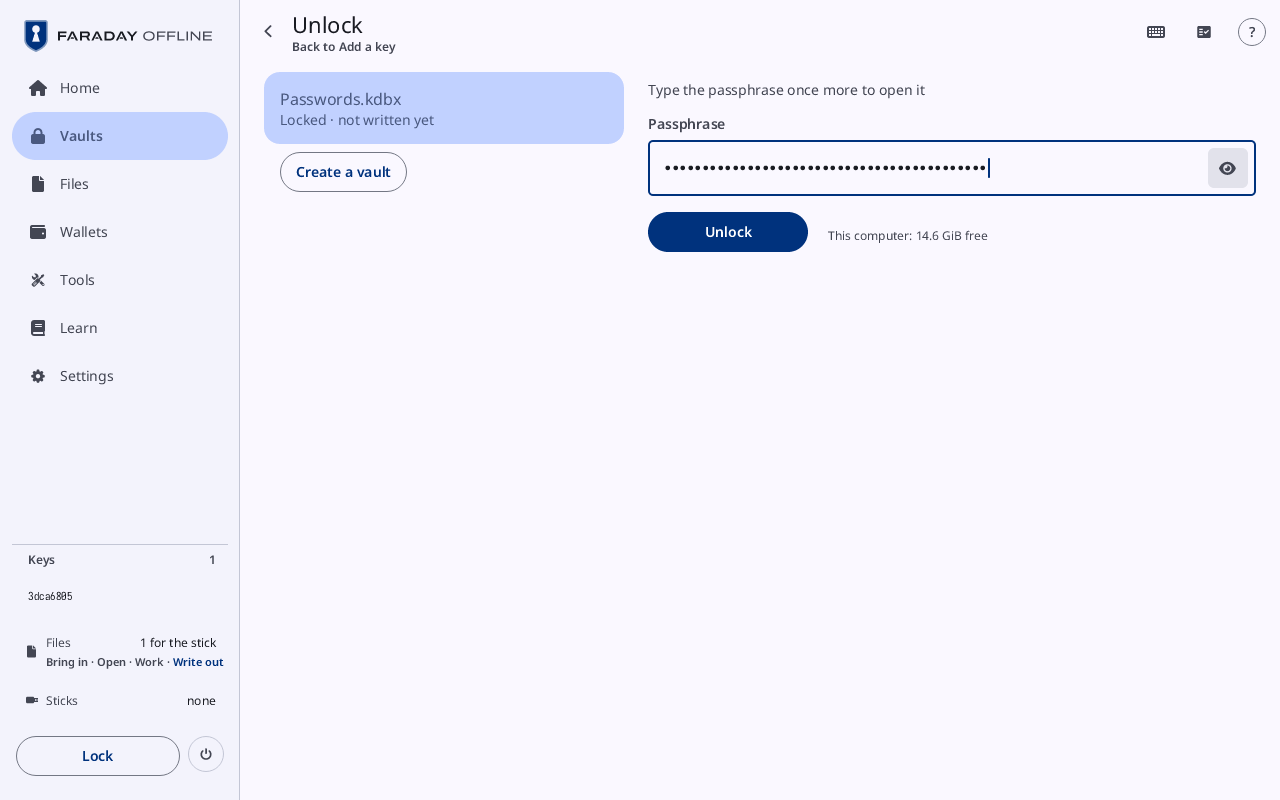
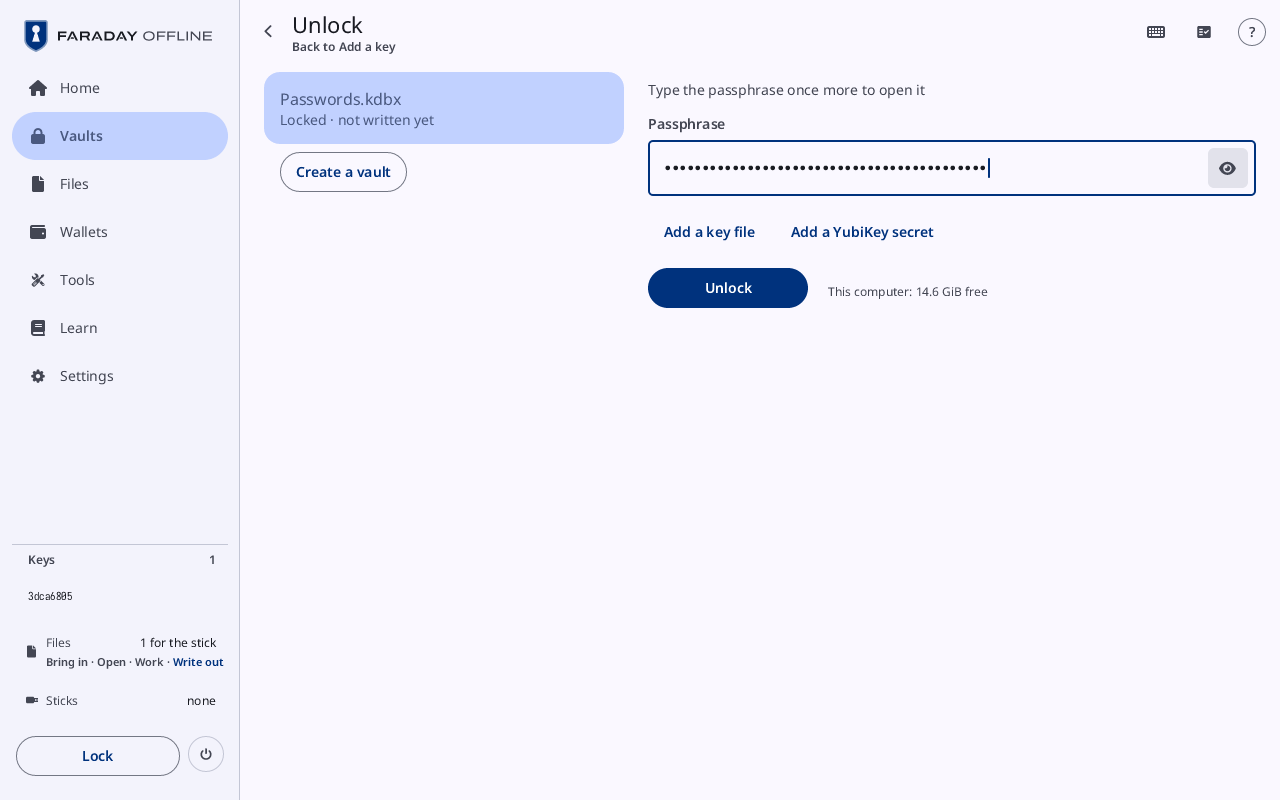
The guide's pictures of Unlock, Create's passphrase step and the open vault's page show the key file and YubiKey rows and the ⋮ menu, and the pages of Vaults, Create a vault and the open vault name them. unmake_key_file's account covers a .keyx taken out of the Outbox by hand.
Reviewed: tree.image-metadata
Reviewed: strings.plain
Reviewed: crypto.kept-values
Reviewed: crypto.costs-said
Reviewed: keys.secret-files
Reviewed: keys.child-vault-only
Reviewed: keys.vault-memory-need
Reviewed: keys.vault-components
Claude-Session: https://claude.ai/code/session_01Nu65eQEctKHpYAeKaDVyXV

Changed region(s): [[0.5, 0.25, 0.75, 0.4062]]

diff --git a/faraday/faraday-keys/src/vault.rs b/faraday/faraday-keys/src/vault.rs
@@ -2059,8 +2059,9 @@ impl OpenVaults {
     }
 
     /// Takes back a key file made for open vault `id` ([`OpenVaults::make_key_file`])
-    /// that its document could not be kept for: the key is wiped and no key
-    /// file is pending. `false` where the pending key file is not a made
+    /// whose document was not kept (it could not be, or its `.keyx` was
+    /// taken out of the Outbox): the key is wiped and no key file is
+    /// pending. `false` where the pending key file is not a made
     /// one (a chosen key or a removal stays), an unknown vault and a
     /// read-only or sealing one.
     pub fn unmake_key_file(&mut self, id: VaultId) -> bool {

diff --git a/docs/guide/screens/vaults.md b/docs/guide/screens/vaults.md
@@ -86,6 +86,8 @@ asked for the vault.
 | **Type the passphrase once more to open it** | over the field, for the vault just made by Create a vault |
 | the vault | the vault chosen in the list beside it, by its name and state (**Locked vault**, **Locked**; a vault just made, **New vault**, **Locked · not written yet**), with **Create a vault** under the list. On a narrower window, each locked vault is a row: its file, where it is and its size, its unlock cost, and "about 2.4 s here", the time it takes on this computer; a press chooses it |
 | **Passphrase** | the field; its eye shows or hides what is typed |
+| **Add a key file** | under the field: opens **Choose a key file**, a list of the files in Files that are not vaults, with **Choose**; "Files holds no file that is not a vault" when there is none. A vault sealed with a key file opens only with that file |
+| **Add a YubiKey secret** | under the field: shows the **YubiKey secret** field, 40 hexadecimal digits with spaces or colons between them; the line under it says how many digits were typed, or that something else was typed. A vault sealed with a YubiKey secret opens only with it |
 | "Remove the stick, then type the passphrase" | in place of the field while a stick is attached |
 | **Unlock** | tries the passphrase. Grey while a stick is attached |
 | "This computer: 3.1 GiB free" | the memory free here, or **This computer: memory not reported** |

diff --git a/docs/guide/screens/vault.md b/docs/guide/screens/vault.md
@@ -25,6 +25,10 @@ writes the vault back over its own file.
 | the title | the vault's name ("Vault 1"), or "Vault" for a vault with no name |
 | the state | under the title: **Open**, or "Open · 2 unsaved changes" in the warning tone |
 | **Rename** | opens **Rename the vault** in the detail: **Name**, **Save**, **Cancel** |
+| ⋮ | beside **Rename**: **Key file** and **Remove YubiKey secret** |
+| **Key file** | in the ⋮: a dialog with **Make a key file**, **Choose a file** and **Remove key file**, each acting at once, and "Next seal: none" or "Next seal: a key file". A made key file goes to the Outbox; it takes effect at the next seal, and copies sealed before keep the key file they had |
+| **Remove YubiKey secret** | in the ⋮: the next seal leaves the YubiKey secret out, and copies sealed before still need it; **Keep YubiKey secret** in its place while a removal waits |
+| the line after the state | "Needs a key file" or "Opens with a YubiKey", for what the next seal needs |
 | **Change passphrase** | opens [Change passphrase](#change-passphrase-and-memory); a read-only vault does not offer it |
 | **Memory** | opens [Memory](#change-passphrase-and-memory); a read-only vault does not offer it |
 | **Lock** | locks, sealing every open vault; [Lock](lock-and-power.md#lock) asks first when the lock would end something |

diff --git a/docs/guide/screens/create-vault.md b/docs/guide/screens/create-vault.md
@@ -81,6 +81,7 @@ memory ticked.
 | **Name** | what the vault holds, for anyone who sees the stick; the file's name follows it ("File Passwords.kdbx"). Left empty, the file is `vault.kdbx` and the vault's title is "Vault" |
 | **Show passphrase**, **Hide passphrase** | shows or hides the passphrase typed |
 | **Passphrase** | the vault's one passphrase: two fields, typed, then typed again |
+| **Add a key file** | under the fields: **Make a key file** or **Choose a file**; the closed passphrase line then ends "key file". The key file is needed to open the vault, so it is kept apart from the vault's file |
 | **Generate with dice** | opens the dice panel under the fields; "or type your own below" beside it |
 | the line under the fields | **Matches**, **Does not match yet** in the warning tone, or **Type it, then type it again** |
 | the strength line | "77.5 bits from dice + ≈17.6 from the unlock cost ≈ 95.1 bits" for words from dice; "Typed: its own bits are not measured · the unlock cost adds ≈…" for a typed one |

diff --git a/docs/KEYS.md b/docs/KEYS.md
@@ -129,7 +129,7 @@ Moved to `docs/history/KEYS-LOG.md`.
   vault's key, and a failed make gives none; `OpenVaults::key_file_document`
   hands it out once (a second call gives none until another key is made)
   and not while the vault seals, and `OpenVaults::unmake_key_file` takes a
-  made key back where its document could not be kept. A
+  made key back where its document was not kept. A
   key file chosen (`set_key_file`) or opened with has no way out. A make
   never takes a YubiKey's secret (F208): `StretchJob::keyed` refuses it.
 - **A signing job** (`job::SignJob`, WORKERS §6) shares the keys, it does
